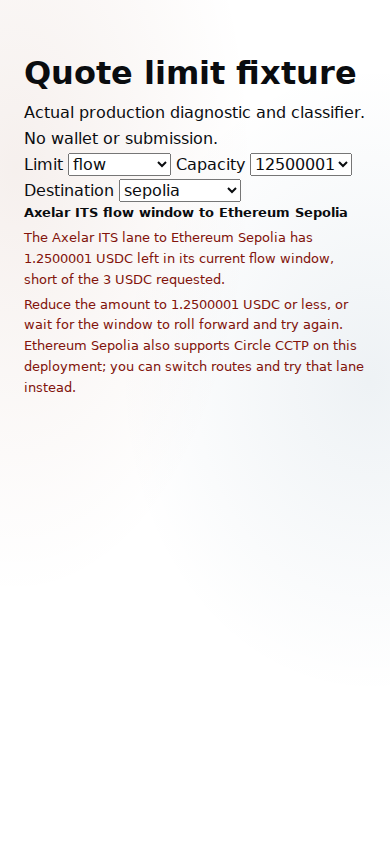
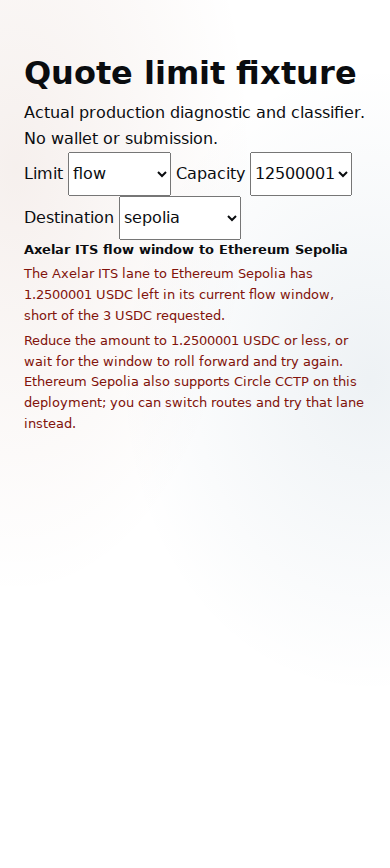
Record current quote limit and narrow-screen source inspection

Changed region(s): [[0.0615, 0.1555, 0.9231, 0.4977]]

diff --git a/docs/review/binding-limits/README.md b/docs/review/binding-limits/README.md
@@ -5,3 +5,5 @@ Chromium 158.0.8127.18 exercised the exact diagnostic JSX extracted from product
 Exact 1.2500001 USDC flow capacity and 3 USDC requested amounts, zero capacity, unknown capacity without an invented retry amount, paused and disabled operator guidance, liquidity and route maximum guidance, unrecognized codes and supported alternate lanes passed. Desktop and mobile captures were inspected and showed no horizontal overflow. Source hashes are recorded.
 
 The final Node 22 pipeline passed formatting, house rules, contrast, deterministic tests, strict lint, typecheck and production build with live spending disabled. It includes the validated source-recovery, native reserve and wallet cancellation repairs.
+
+The integrated source preserves the published narrow-screen review footer and tap targets. All seven Node 22 pipeline constituents passed again, and the exact production diagnostic/classifier/config/style fixture and inspected desktop/mobile captures were refreshed at that source.
